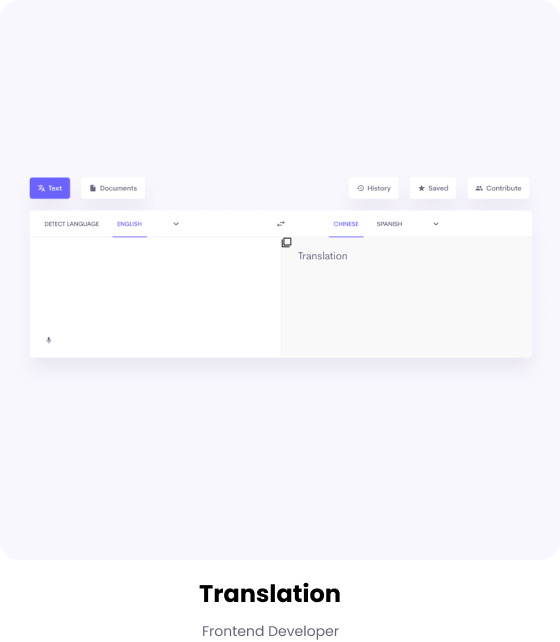
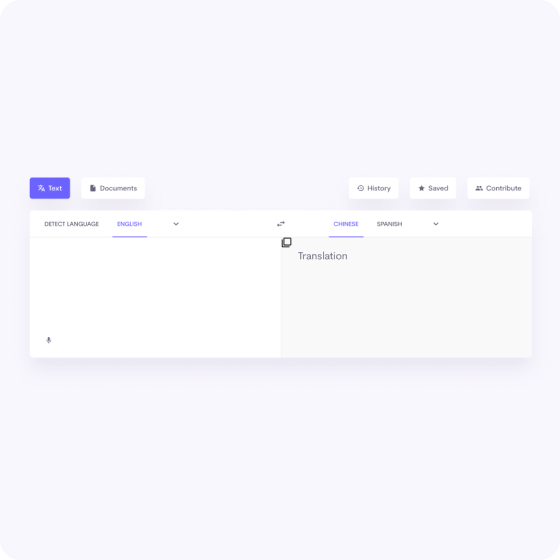
Added work page html and css

diff --git a/work.html b/work.html
@@ -31,7 +31,39 @@
   <body>
     <div class="content-container container">
       <div class="content">
-        <h1 class="mb-4">Take a look at what I've been working on!</h1>
+        <h1 class="mb-5">Take a look at what I've been working on!</h1>
+        <div class="row">
+          <div class="col-lg-6 mb-4">
+            <img src="images/yogurt.png" class="img-fluid rounded" alt="" />
+            <h3 class="text-center">Yogurt Project</h3>
+            <p class="text-center text-muted">Built with HTML and CSS</p>
+          </div>
+          <div class="col-lg-6 mb-4">
+            <img src="images/weather.png" class="img-fluid rounded" alt="" />
+            <h3 class="text-center">Weather Project</h3>
+            <p class="text-center text-muted">
+              Built with HTML, CSS, and JavaScript
+            </p>
+          </div>
+          <div class="col-lg-6 mb-4">
+            <img src="images/dictionary.png" class="img-fluid rounded" alt="" />
+            <h3 class="text-center">Dictionary App</h3>
+            <p class="text-center text-muted">
+              Built with HTML, CSS, and React
+            </p>
+          </div>
+          <div class="col-lg-6 mb-4">
+            <img
+              src="images/translation.png"
+              class="img-fluid rounded"
+              alt=""
+            />
+            <h3 class="text-center">Translation App</h3>
+            <p class="text-center text-muted">
+              Built with HTML, CSS, and React
+            </p>
+          </div>
+        </div>
       </div>
     </div>
   </body>

diff --git a/src/style.css b/src/style.css
@@ -61,6 +61,17 @@ p {
   margin: 30px;
 }
 
+.content h3 {
+  font-size: 24px;
+  font-family: var(--default-font-family);
+  line-height: 1.5;
+  margin: 20px 0 0;
+}
+
+.content p {
+  font-size: 14px;
+}
+
 .content-container h1 {
   font-size: 64px;
 }
@@ -106,7 +117,7 @@ p {
     text-align: center;
   }
 
-  .about-section {
+  .content {
     text-align: center;
     padding: 0px;
   }

diff --git a/about.html b/about.html
@@ -48,12 +48,7 @@
           </div>
         </div>
         <div class="col-lg-6">
-          <img
-            src="images/headshot.JPG"
-            alt=""
-            width="50%"
-            class="image-fluid"
-          />
+          <img src="images/headshot.JPG" alt="" width="50%" class="img-fluid" />
         </div>
       </div>
     </div>
